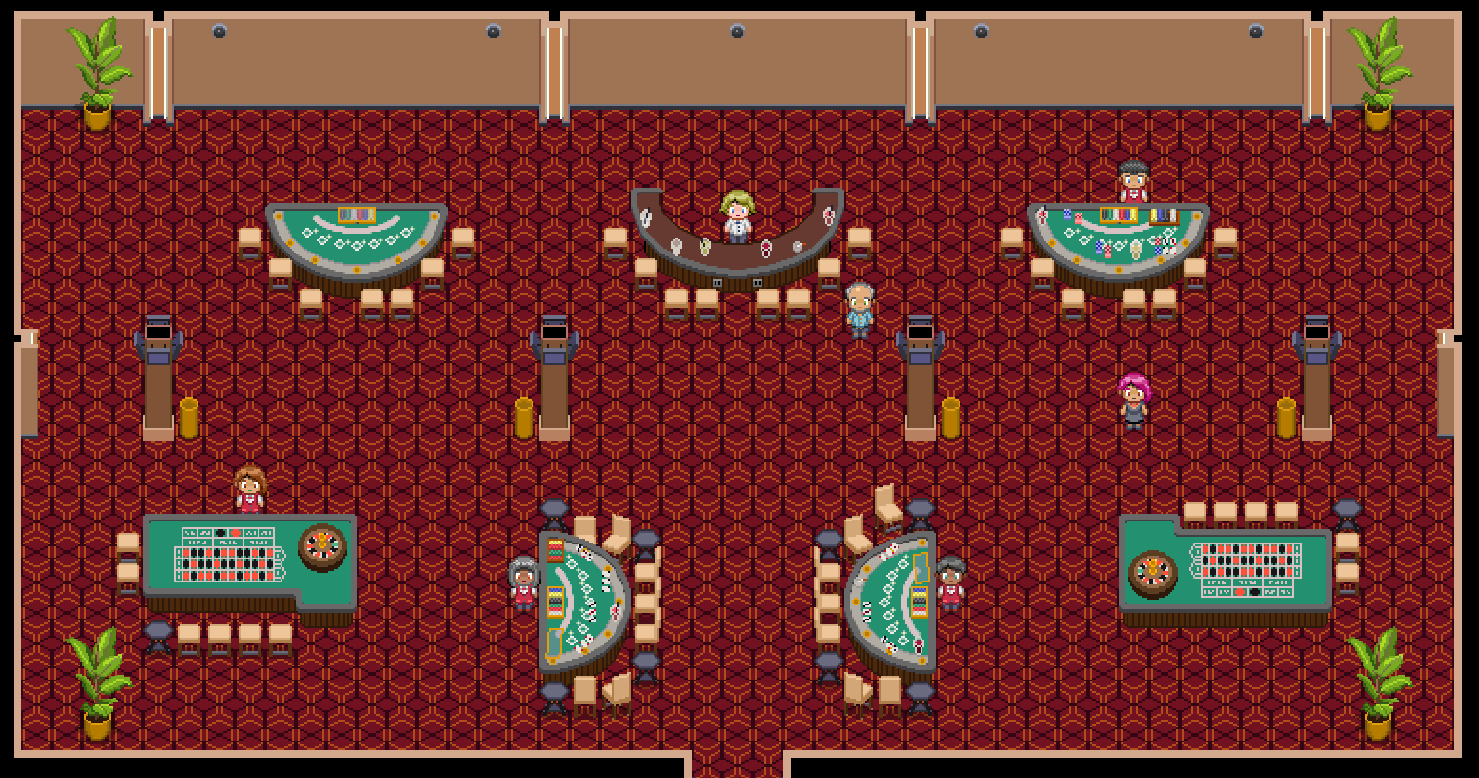
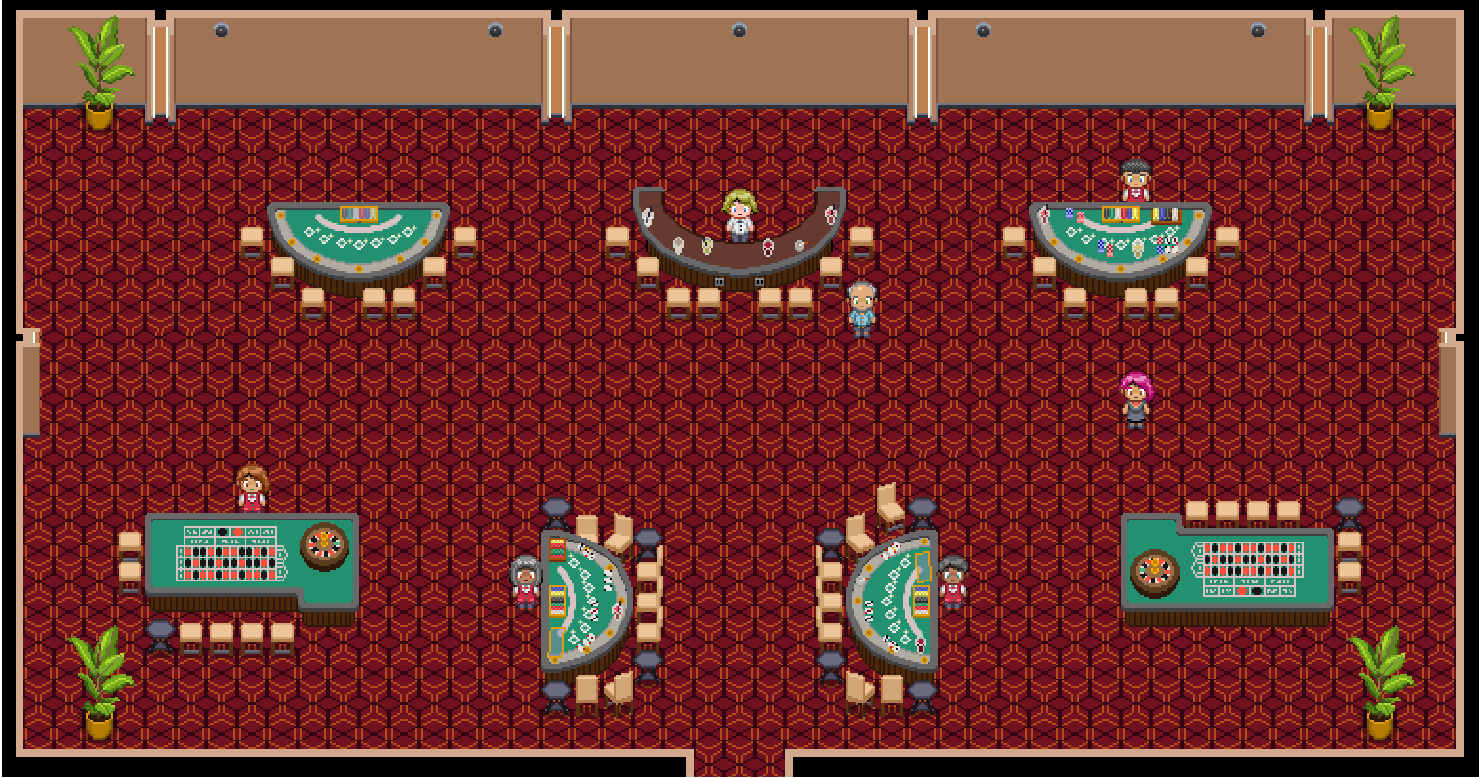
added casino hitboxes

diff --git a/game.py b/game.py
@@ -51,6 +51,8 @@ stupidlist = []
 selfid = None
 team = "nah"
 font_upgrade = pygame.font.Font(None, 60)
+txt_cas = pygame.image.load("Images//casino.png")
+txt_cas = pygame.transform.scale(txt_cas, (1280, 720))
 
 
 class Dugme:
@@ -60,7 +62,7 @@ class Dugme:
         self.boja = boja
 
 
-def nacrtaj_dugme_bez_centiranja(dugme : Dugme):
+def nacrtaj_dugme_bez_centiranja(dugme: Dugme):
     pygame.draw.rect(prozor, dugme.boja, dugme.rect)
     prozor.blit(dugme.tekst, dugme.rect.topleft)
 
@@ -209,7 +211,9 @@ def nacrtaj_mapu():
 def change_house_layer(playerrect):
 
     if playerrect.colliderect(
-        pygame.Rect(200-cx, 130-cy, txt_kuca.get_width() * 0.6, txt_kuca.get_height() * 0.6)
+        pygame.Rect(
+            200 - cx, 130 - cy, txt_kuca.get_width() * 0.6, txt_kuca.get_height() * 0.6
+        )
     ):
         prozor.blit(txt_house_floor, (200, 130))
         prozor.blit(txt_laptop, (280, 120))
@@ -313,16 +317,16 @@ def game():
 
         if keys[pygame.K_w]:
             important_keys["w"] = True
-            #cy+=1
+            # cy+=1
         if keys[pygame.K_s]:
             important_keys["s"] = True
-            #cy-=1
+            # cy-=1
         if keys[pygame.K_a]:
             important_keys["a"] = True
-            #cx+=1
+            # cx+=1
         if keys[pygame.K_d]:
             important_keys["d"] = True
-            #cx+-1
+            # cx+-1
 
         for key in important_keys.keys():
             if important_keys[key] == True:
@@ -342,6 +346,9 @@ def game():
             f"FPS : {round(sat.get_fps() , 0)}", False, pygame.Color("black")
         )
         MinersUpgradeMenu()
+
+
+
         prozor.blit(fps_text, (0, 0))
 
         pygame.display.update()
@@ -357,7 +364,7 @@ def main_menu():
                 program_radi = False
                 sys.exit()
             if dogadjaj.type == pygame.MOUSEBUTTONDOWN:
-                if main_menu_dugme_quit.rect.collidepoint(dogadjaj.pos):
+                if main_menu_dugme_quit.rect.collidepoint(dogadjaj.pos):  
                     program_radi = False
                     pygame.quit()
                     sys.exit()
@@ -375,4 +382,57 @@ def main_menu():
         sat.tick(30)
 
 
+temp_player = pygame.Rect(50, 50, 40, 60)
+
+
+lista_zidova = [
+    pygame.Rect(20, 50, 1235, 1),
+    pygame.Rect(205, 190, 205, 100),
+    pygame.Rect(520, 175, 235, 110),
+    pygame.Rect(865, 190, 210, 110),
+    # pygame.Rect(1105, 290, 50, 125),
+    # pygame.Rect(775, 290, 55, 120),
+    # pygame.Rect(445, 290, 50, 125),
+    # pygame.Rect(115, 290, 55, 120),
+    pygame.Rect(100, 475, 210, 125),
+    pygame.Rect(465, 460, 105, 195),
+    pygame.Rect(705, 450, 105, 210),
+    pygame.Rect(970, 465, 205, 115),
+    pygame.Rect(1180, 660, 25, 25),
+    pygame.Rect(70, 660, 30, 20),
+    pygame.Rect(20, 50, 2, 645),
+    pygame.Rect(20, 695, 575, 2),
+    pygame.Rect(680, 695, 575, 2),
+    pygame.Rect(1255, 50, 2, 640),
+]
+
+
+def cas():
+    global temp_player
+    program_radi = True
+    while program_radi:
+        for dogadjaj in pygame.event.get():
+            if dogadjaj.type == pygame.QUIT:
+                program_radi = False
+                sys.exit()
+        prozor.blit(txt_cas, (0, 0))
+        pygame.draw.rect(prozor, pygame.Color("blue"), temp_player)
+        for zid in lista_zidova:
+            pygame.draw.rect(prozor, pygame.Color("red"), zid, 5)
+
+        keys = pygame.key.get_pressed()
+        if keys[pygame.K_w]:
+            temp_player.y -= 5
+        if keys[pygame.K_s]:
+            temp_player.y += 5
+        if keys[pygame.K_d]:
+            temp_player.x += 5
+        if keys[pygame.K_a]:
+            temp_player.x -= 5
+        print(f"{temp_player.x} {temp_player.y} ")
+
+        pygame.display.update()
+
+
 main_menu()
+#cas()

diff --git a/Player.py b/Player.py
@@ -19,6 +19,7 @@ class Player:
         self.collision = False
         self.rect = pygame.Rect(self.x , self.y , 35 , 65)
     def move(self):
+        
         zidovi = [
             pygame.Rect(165, 120, 5, 230),
             pygame.Rect(165, 370, 120, 5),

diff --git a/world.py b/world.py
@@ -12,3 +12,4 @@ def getworld() -> dict:
         pygame.Rect(805 , 120 , 5 , 250 )
 ]
     return d1
+    
